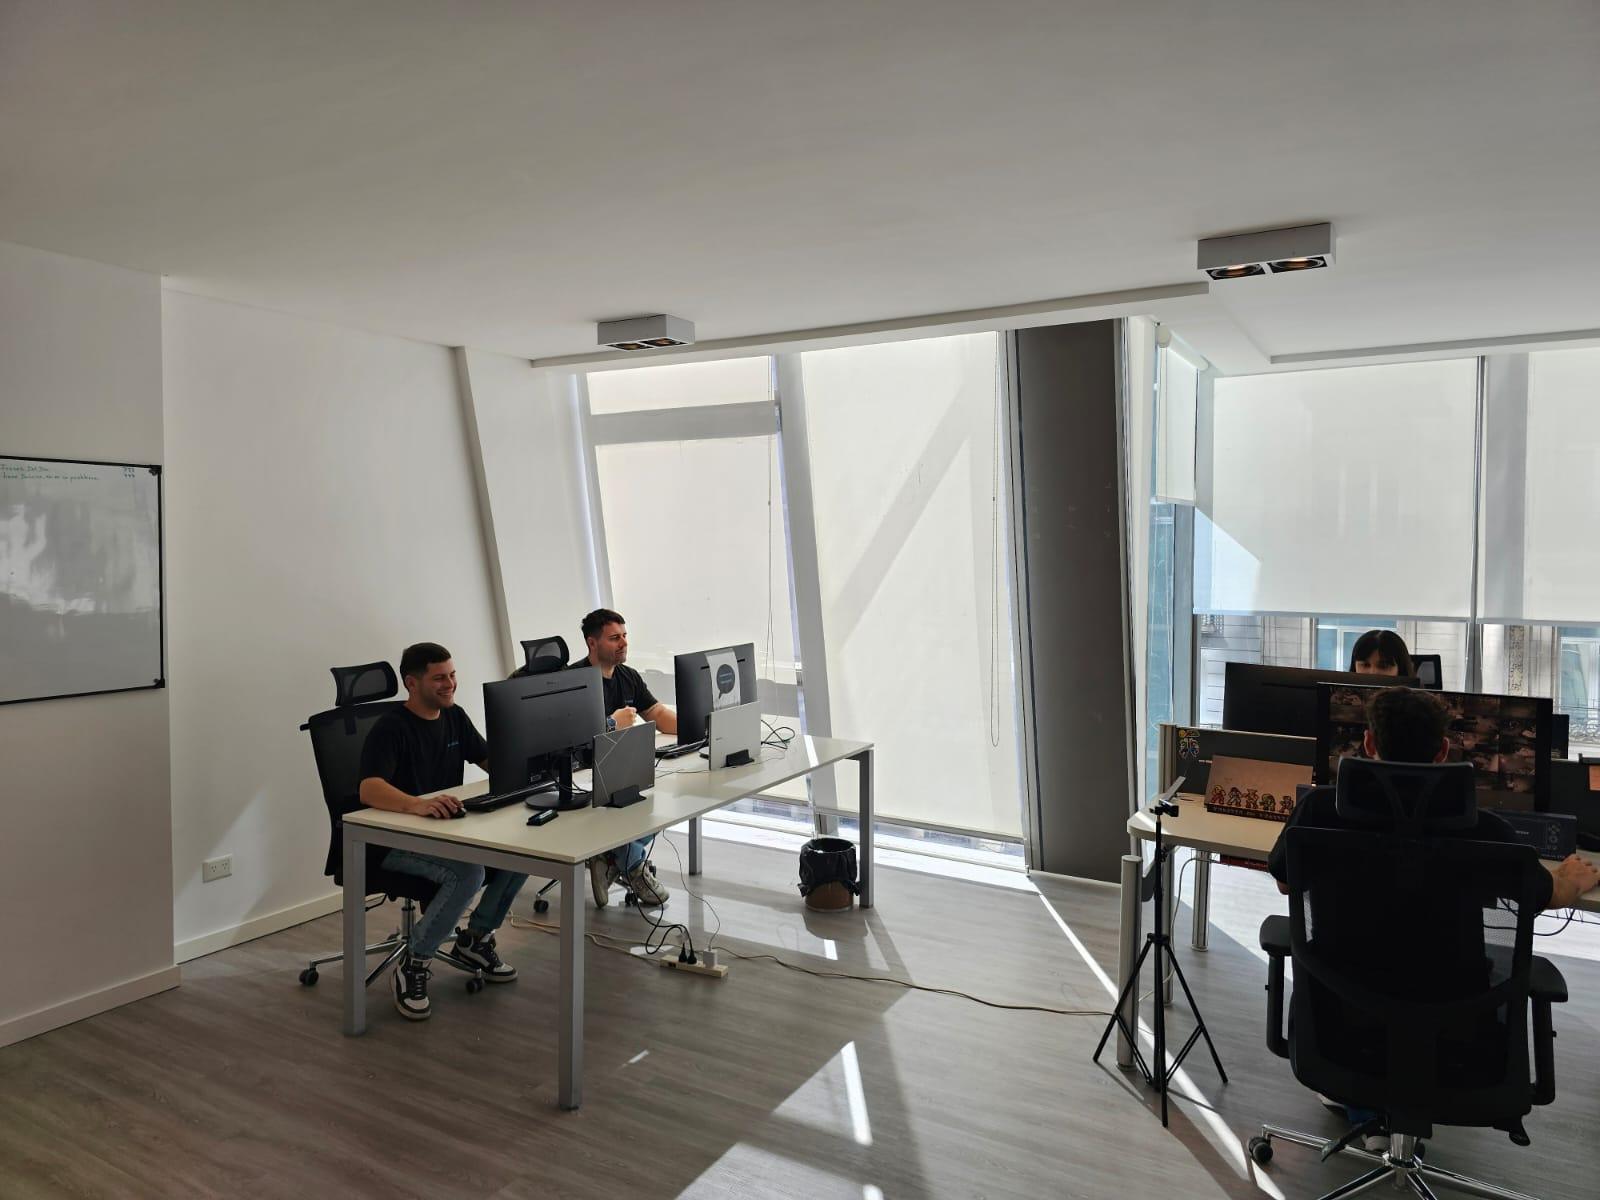
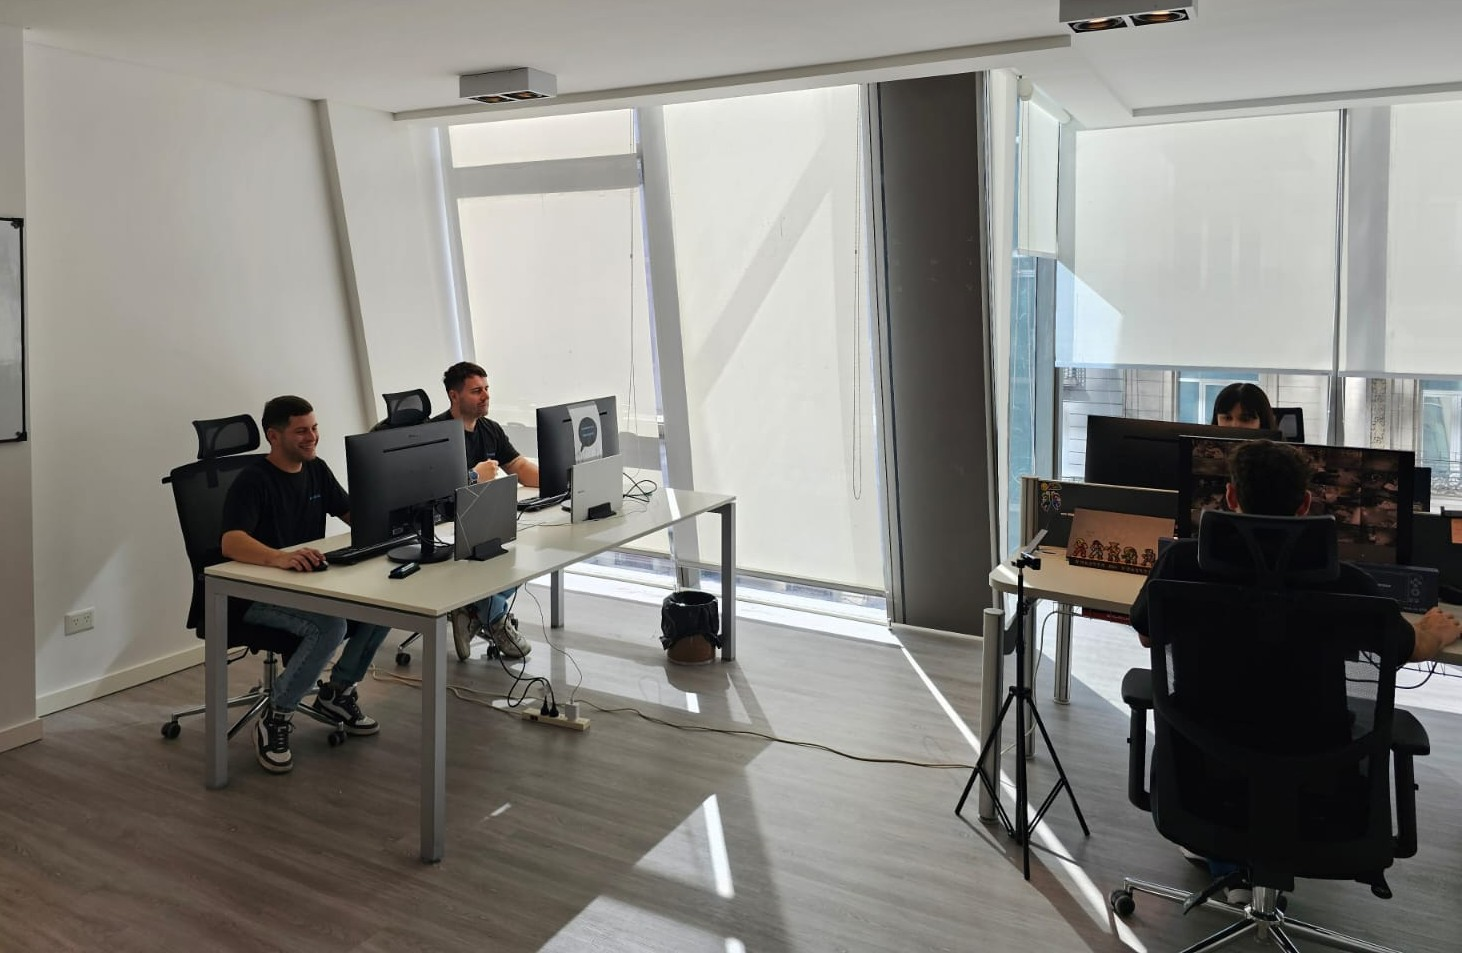
a

diff --git a/src/components/sections/ProjectsSection.jsx b/src/components/sections/ProjectsSection.jsx
@@ -162,12 +162,12 @@ const ProjectsSection = () => {
       data-aos="fade-in"
       data-aos-duration="1000"
     >
-      <div className="absolute inset-0 bg-black/70 transition-opacity duration-500"></div>
+      <div className="absolute inset-0 bg-black/20 transition-opacity duration-500"></div>
       
       <div className="container mx-auto px-4 relative z-10">
         <div className="text-center mb-16">
           <h2
-            className="text-4xl font-light text-blue-200 mb-4 transition-all duration-300 hover:scale-105 hover:text-blue-200"
+            className="text-4xl font-light text-blue-100 mb-4 transition-all duration-300 hover:scale-105 hover:text-blue-200"
             data-aos="fade-down"
             data-aos-duration="1000"
           >
@@ -186,8 +186,8 @@ const ProjectsSection = () => {
           {testimonials.map((testimonial, index) => (
             <div
               key={index}
-              className="bg-white/15 backdrop-blur-md p-8 rounded-xl shadow-xl border border-white/20 h-full flex flex-col 
-                         transition-all duration-300 hover:scale-103 hover:bg-white/20 hover:shadow-2xl"
+              className="bg-black/40 backdrop-blur-md p-8 rounded-xl shadow-xl border border-white/20 h-full flex flex-col 
+                         transition-all duration-300 hover:scale-103 hover:bg-black/50 hover:shadow-2xl"
               data-aos="zoom-in"
               data-aos-delay={index * 150}
             >

diff --git a/src/components/sections/ServicesSection.jsx b/src/components/sections/ServicesSection.jsx
@@ -124,11 +124,12 @@ const ServicesSection = () => {
     >
       {/* Background Image with Overlay */}
       <div
-        className="absolute inset-0 w-full h-full bg-cover bg-center bg-no-repeat transform scale-105 animate-subtle-zoom"
+        className="absolute inset-0 w-full h-full bg-cover bg-center bg-no-repeat transform scale-105 animate-subtle-zoom lg:left-0 bg-right-mobile"
         style={{
           backgroundImage: `url(${bgImage})`,
           maxWidth: "100vw",
           overflow: "hidden",
+          backgroundPosition: "center right",
         }}
       />
       <div

diff --git a/src/styles/index.css b/src/styles/index.css
@@ -43,6 +43,11 @@ code {
     padding-left: 0.75rem;
     padding-right: 0.75rem;
   }
+
+  /* Mobile background image positioning - adjusted to be less extreme */
+  .bg-right-mobile {
+    background-position: 20% center !important;
+  }
 }
 
 .text-teal {
